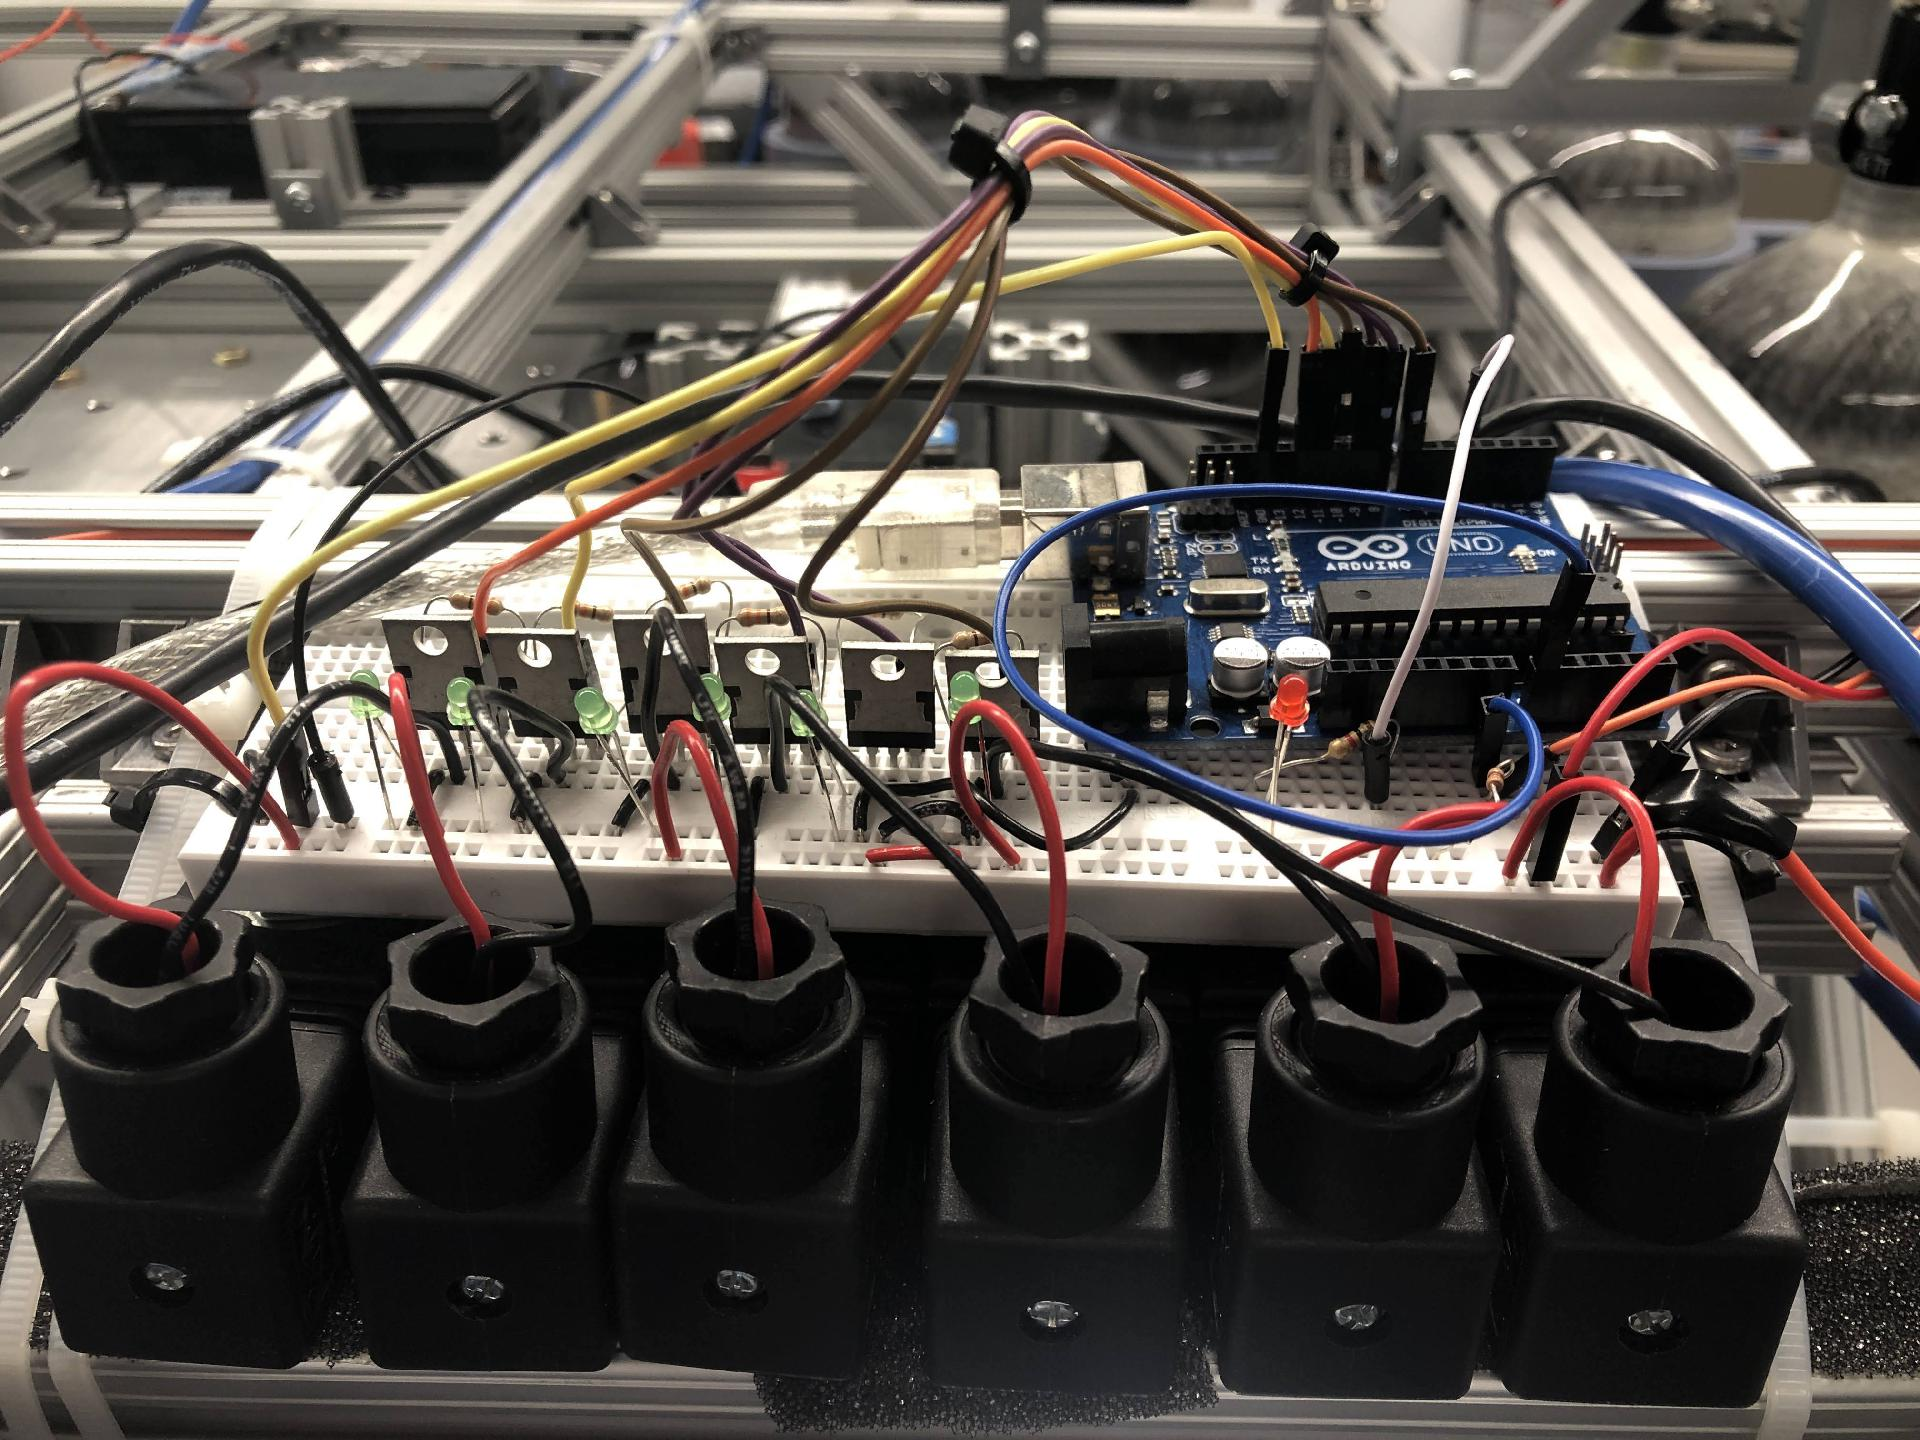
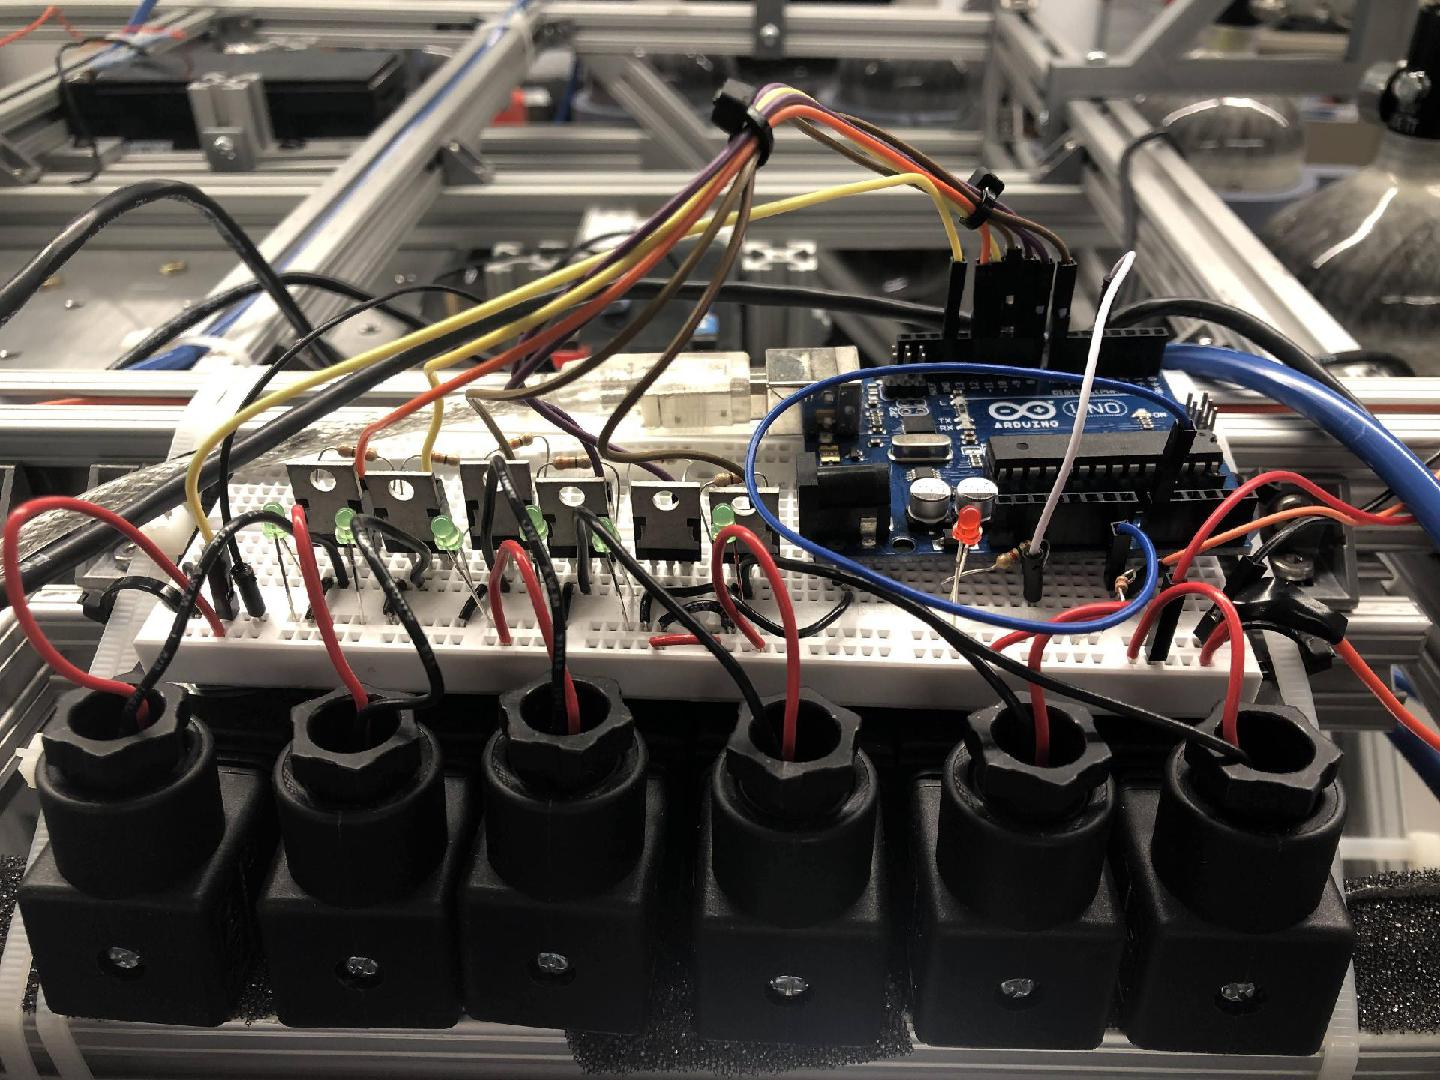
further optimized pics

diff --git a/website/resources/pics/imageOptimizer.py b/website/resources/pics/imageOptimizer.py
@@ -7,7 +7,7 @@ def rmMeta(image):
         image_without_exif = Image.new(image.mode, (width, height))
         image_without_exif.putdata(data)
 
-        bound_size = 1920
+        bound_size = 1440
         scale_factor = max(width, height)/bound_size
         if scale_factor > 1:
             newSize = (int(width/scale_factor), int(height/scale_factor))
